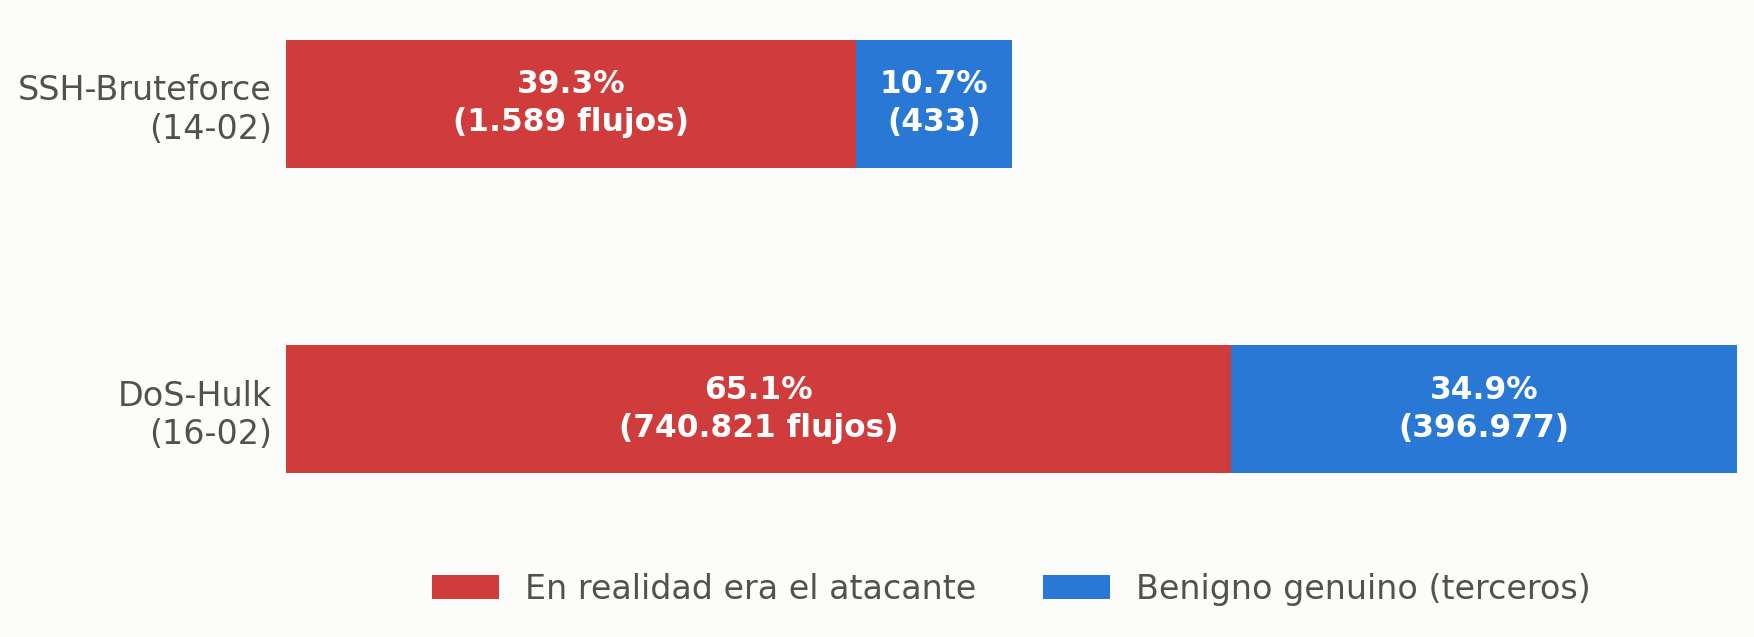
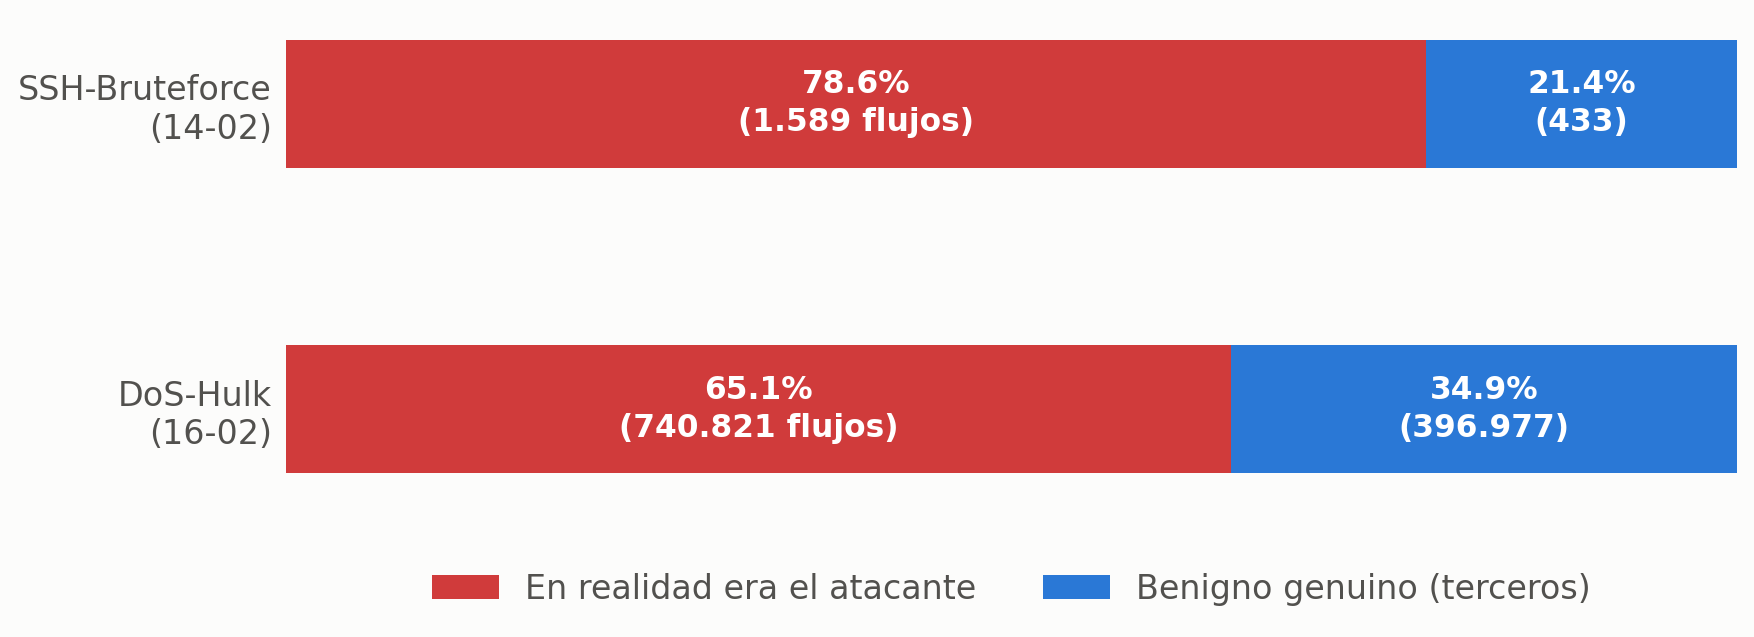
Sexta errata: la figura 3.5 repartia mal los porcentajes
Su barra apilada del dia del SSH sumaba 50 % -39.3 + 10.7- porque el
denominador incluia una clave "total" del diccionario. Lo correcto es
78.6 % y 21.4 %, que es lo que dice el texto de la propia seccion.
Corregido en el codigo y documentado en ERRATAS.md.

Changed region(s): [[0.2463, 0.0597, 1.0, 0.2684]]

diff --git a/scripts/figuras/fig_metodologia.py b/scripts/figuras/fig_metodologia.py
@@ -241,9 +241,14 @@ def f15_composicion_benigno() -> None:
     y = np.arange(len(casos))
     alto = 0.42
     for i, (nombre, comp) in enumerate(casos):
-        total = sum(comp.values())
+        # ERRATA (15-sep): esto era sum(comp.values()), que suma tambien las
+        # claves que NO son partes -CONTAMINACION_SSH lleva un "total" y
+        # CONTAMINACION_DOS una "fraccion_contaminada"-. En el SSH duplicaba el
+        # denominador: sacaba 39.3 % + 10.7 % = 50 % en una barra apilada que
+        # debe sumar 100. Lo correcto es 78.6 % + 21.4 %.
         atk = comp["del atacante (fuera de ventana)"]
         gen = comp["de terceros (genuino)"]
+        total = atk + gen
         ax.barh(i, atk / total, alto, color=CRITICO,
                 label="En realidad era el atacante" if i == 0 else None)
         ax.barh(i, gen / total, alto, left=atk / total, color=AZUL,

diff --git a/ERRATAS.md b/ERRATAS.md
@@ -4,20 +4,20 @@
 septiembre de 2026**, sin modificar: es el mismo fichero, byte a byte
 (`md5 e934d5d06bedb8d769b74ecf69d00dc2`). Después de la entrega se revisó el texto
 contra el código, afirmación por afirmación —arquitecturas, tamaños de
-experimento, métodos, recuentos y parámetros—, y aparecieron cinco erratas.
+experimento, métodos, recuentos y parámetros—, y aparecieron seis erratas.
 Se documentan aquí en lugar de corregirlas en el PDF, porque el PDF entregado es
 el que tiene el tribunal y cambiarlo a posteriori haría que dejasen de coincidir.
 
-**Ninguna de las cinco afecta a un resultado.** El auditor de coherencia
+**Ninguna de las seis afecta a un resultado.** El auditor de coherencia
 (`scripts/figuras/verificar_memoria.py`) contrasta las 432 cifras del texto y
-las tablas contra `scripts/figuras/resultados.py` y sale en verde. Dos están en
-figuras —una con cifras de escala desfasadas, y otra, que afecta a dos figuras,
-con el final de un rótulo fuera del recorte— y las otras tres fallan al
+las tablas contra `scripts/figuras/resultados.py` y sale en verde. Tres están en
+figuras —cifras de escala desfasadas, el final de un rótulo fuera del recorte en
+dos de ellas, y unos porcentajes mal repartidos— y las otras tres fallan al
 *describir* algo que el código hace de otra manera.
 
 **El código de este repositorio sí está corregido** en los dos casos que lo
-requerían (las erratas 1 y 2). Por eso, si se regeneran las figuras 3.2, 4.6 y
-5.2, salen distintas de las que imprime `main.pdf`. Esa divergencia es deliberada y
+requerían (las erratas 1, 2 y 3). Por eso, si se regeneran las figuras 3.2, 3.5,
+4.6 y 5.2, salen distintas de las que imprime `main.pdf`. Esa divergencia es deliberada y
 es la que explica este fichero.
 
 ---
@@ -36,7 +36,7 @@ El cuarto régimen entró el 21 de agosto, al incorporar el día de la botnet
 (`02-03-2018`, Ares). Las cuatro fichas de esa figura estaban escritas a mano y
 no se actualizaron con él.
 
-**Es la más visible de las cinco** porque se contradice con la propia memoria a
+**Es la más visible de las seis** porque se contradice con la propia memoria a
 tres páginas de distancia: el resumen, en la página I, dice «17.203.272
 conexiones TCP repartidas en **seis** días del conjunto CSE-CIC-IDS2018».
 
@@ -97,7 +97,34 @@ se recompila aquí.
 
 ---
 
-## 3. El cuarto escalar de la vista de metadatos no es la duración
+## 3. La figura 3.5 reparte mal los porcentajes: su barra suma 50 %, no 100 %
+
+**Dónde:** figura 3.5, «De qué estaba hecho el tráfico benigno», capítulo 3.
+Barra superior (SSH-Bruteforce, 14-02).
+
+| Dice la figura | Es |
+|---|---|
+| **39.3 %** era el atacante · **10.7 %** benigno genuino | **78.6 %** y **21.4 %** |
+
+Se ve sin hacer ninguna cuenta: es una barra apilada que debería ocupar el ancho
+completo, y **llega a la mitad**. 39.3 + 10.7 = 50.
+
+**La causa.** El código calculaba el denominador como `sum(comp.values())` sobre
+un diccionario que, además de las dos partes, lleva una clave `total`. Para el
+día del SSH eso duplicaba el denominador: 1.589 / 4.044 en lugar de 1.589 /
+2.022. La barra del DoS no se ve afectada porque su diccionario lleva una clave
+`fraccion_contaminada` cuyo valor, 0.651, es despreciable frente a 1,1 millones.
+
+**Contradice al texto de la propia memoria**, que dice 78,6 % —el valor
+correcto— en la sección que acompaña a la figura. Ningún resultado depende de
+ella: es una figura descriptiva del error de etiquetado, no una medición.
+
+**Qué se ha corregido.** El denominador es ahora la suma de las dos partes.
+Como en las erratas 1 y 2, `main.pdf` no se recompila.
+
+---
+
+## 4. El cuarto escalar de la vista de metadatos no es la duración
 
 **Dónde:** §3.2, §3.3 y §4.2.
 
@@ -115,7 +142,7 @@ leerlos— vale igual para «bytes por paquete» que para «duración».
 
 ---
 
-## 4. La atención cruzada no sustituye a la concatenación: la incluye
+## 5. La atención cruzada no sustituye a la concatenación: la incluye
 
 **Dónde:** §5.1, descripción de `CrossAttentionNet`.
 
@@ -135,7 +162,7 @@ que lo añadido no aporta.
 
 ---
 
-## 5. §2.4 remite a una explicación que §6.5 no da
+## 6. §2.4 remite a una explicación que §6.5 no da
 
 **Dónde:** §2.4, cierre del apartado de conjuntos de datos.
 
